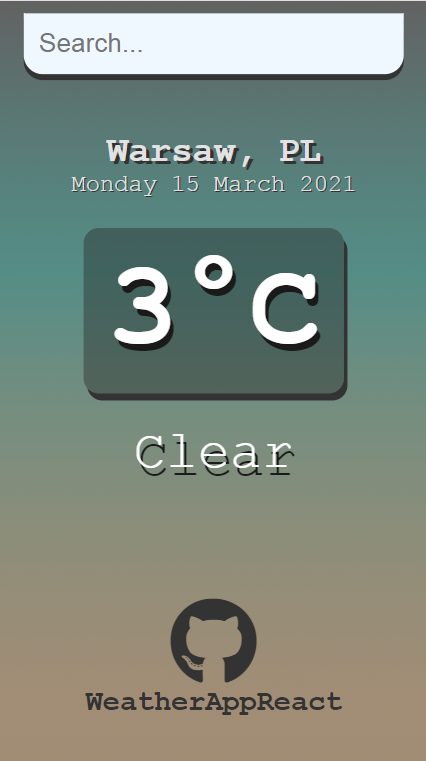
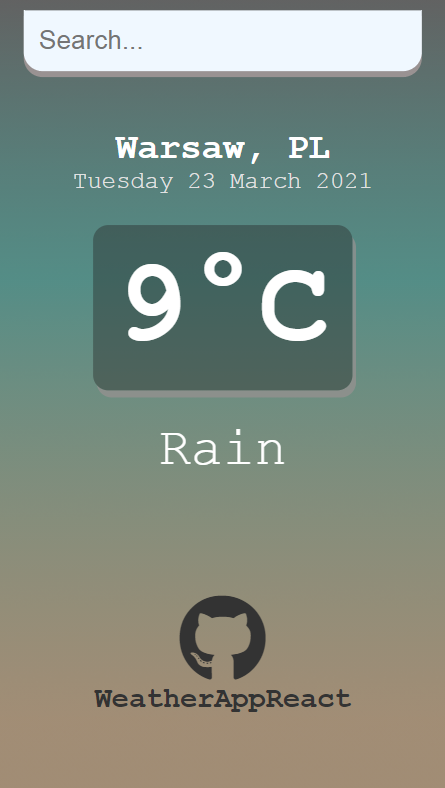
minor fixes

diff --git a/weather-app-react/src/index.css b/weather-app-react/src/index.css
@@ -45,7 +45,7 @@ main
   background-color: aliceblue;
   border-radius: 0 0 16px 16px;
   margin-top: -10px;
-  box-shadow: 0 5px #333;
+  box-shadow: 0 5px #999292;
   color: #1a1a1a;
   font-size: 22px;
   transition: .4s ease;
@@ -58,11 +58,10 @@ main
 
 .location-box .location
 {
-  color: #e2e2e2;
+  color: #fff;
   font-size: 30px;
   font-weight: 600;
   text-align: center;
-  text-shadow: 3px 3px #333;
 }
 
 .location-box .date
@@ -71,26 +70,24 @@ main
   font-size: 20px;
   font-weight: 200;
   text-align: center;
-  text-shadow: 1px 1px #333;
 }
 
-.weather-box { text-align: center;  }
+.weather-box { text-align: center; }
 
 .weather-box .temperature 
 {
   position: relative;
   display: inline-block;
   margin: 25px auto;
-  background-color: rgb(36, 36, 36, 0.4);
+  background-color: #24242466;
   border-radius: .8rem;
   padding: .8rem 1.2rem;
 
   color: #fff;
   font-size: 100px;
   font-weight: 900;
-  text-shadow: 3px 6px #1a1a1a;
   text-align: center;
-  box-shadow: 3px 6px #333;
+  box-shadow: 3px 6px rgb(153, 146, 146, 0.7);
 }
 
 .weather-box .weather 
@@ -98,10 +95,9 @@ main
   color: #fff;
   font-size: 45px;
   font-weight: 400;
-  text-shadow: 3px 6px #1a1a1a;
 }
 
 .footer { text-align: center;  margin-top:6rem;}
 i {color: #333; font-size:75px}
-i:hover{color: 4b4b4b}
+i:hover{color: #4b4b4b}
 h2 {color:#333}

diff --git a/weather-app-react/src/App.js b/weather-app-react/src/App.js
@@ -72,9 +72,6 @@ function App()
               <a  target="_blank" rel="noopener noreferrer" href="https://github.com/YunaAnn"><i className="fab fa-github"></i></a>
               <h2>WeatherAppReact</h2>
               </div>
-
-
-
         </main>
     </div>
   );
